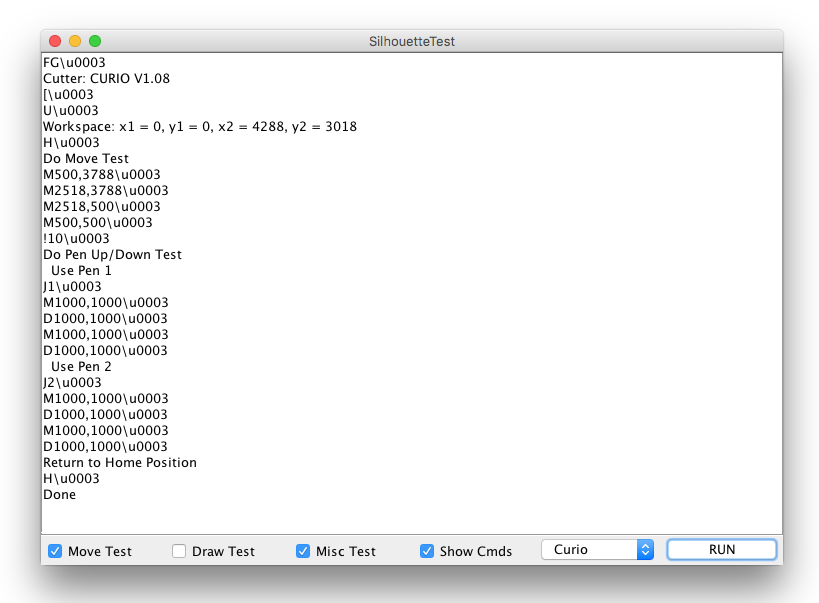
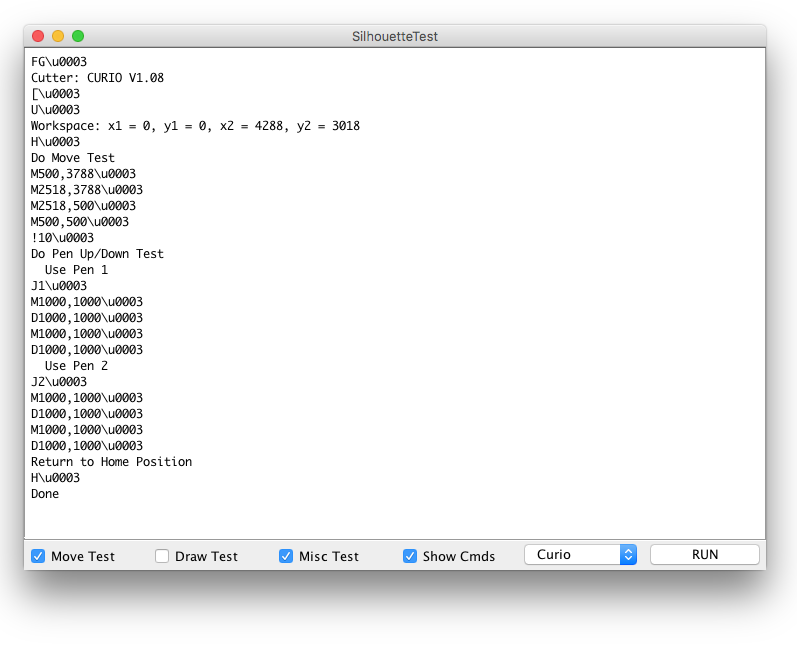
Change textarea font, add insets and update screenshot

Changed region(s): [[0.0, 0.0299, 0.9636, 1.0]]

diff --git a/src/SilhouetteTest.java b/src/SilhouetteTest.java
@@ -196,6 +196,8 @@ public class SilhouetteTest extends JFrame {
     super("SilhouetteTest");
     text.setColumns(50);
     text.setRows(30);
+    text.setFont(new Font("Monaco", Font.PLAIN, 12));
+    text.setBorder(BorderFactory.createEmptyBorder(5, 5, 5, 5));
     JScrollPane scroll = new JScrollPane(text, JScrollPane.VERTICAL_SCROLLBAR_AS_NEEDED, JScrollPane.HORIZONTAL_SCROLLBAR_AS_NEEDED);
     add(scroll, BorderLayout.CENTER);
     JPanel panel = new JPanel(new GridLayout(1, 6, 2, 2));
